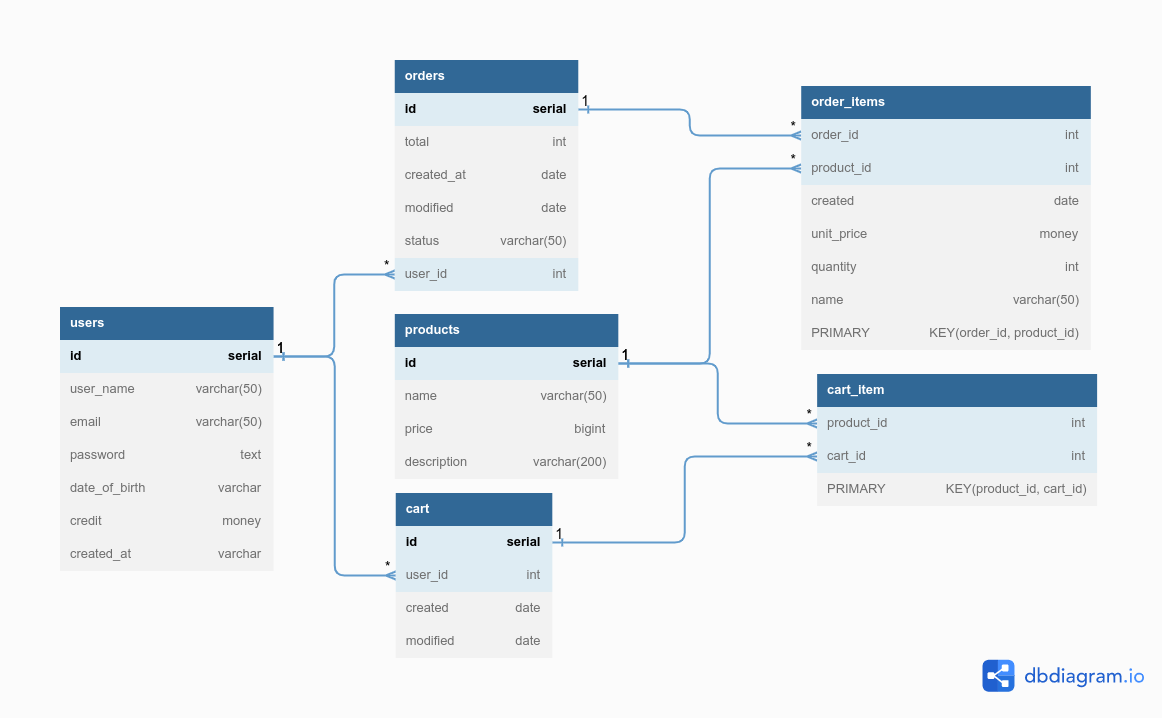
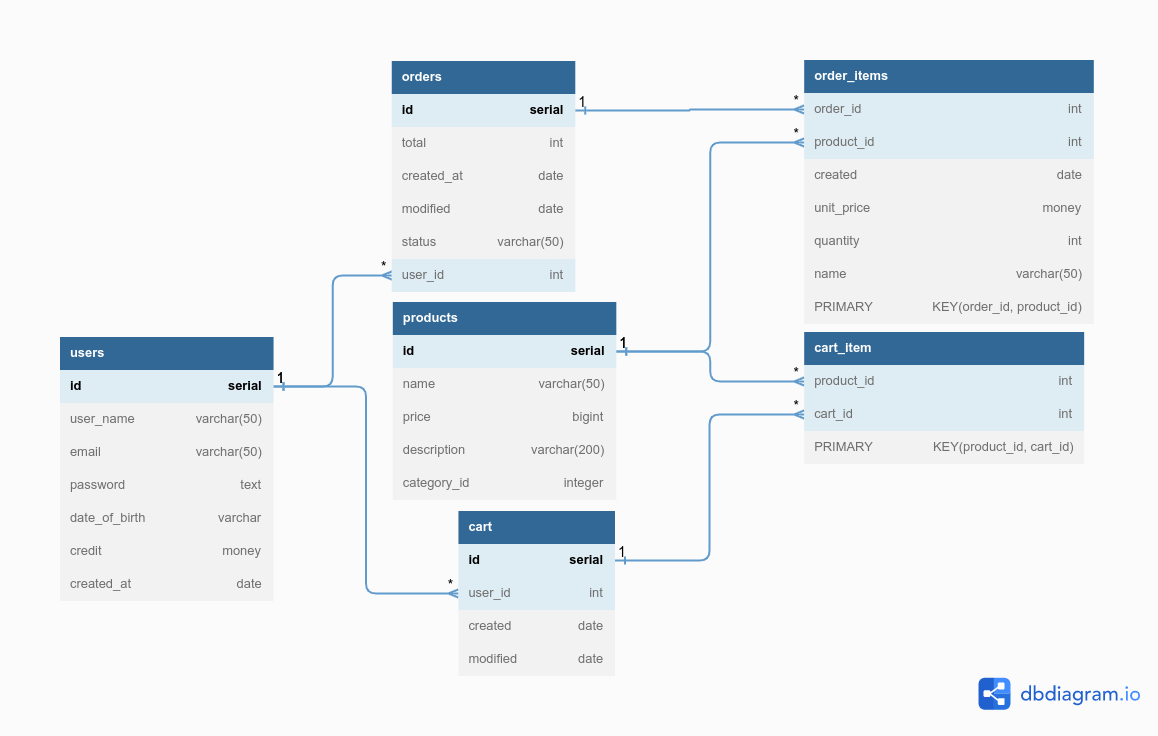
users endpoint completed

diff --git a/queiries/usersQueries.js b/queiries/usersQueries.js
@@ -10,17 +10,13 @@ const getUsers = (request, response) => {
   })
 };
 
-const getUserById = (request, response) => {
-  const id = parseInt(request.params.id);
+const getUserById = async (id) => {
   const values = [id];
   const statement = `SELECT * FROM users WHERE id = $1`;
 
-  db.query(statement, values, (error, results) => {
-    if (error) {
-      throw error
-    }
-    response.status(200).json(results.rows)
-  })
+  const result = await db.query(statement, values);
+  if (!result) { throw error }
+  return result.rows[0];
 };
 
 const getUserByEmail = async (email) => {
@@ -49,36 +45,23 @@ const createUser = (data) => {
   return result.rows[0];
 };
 
-const updateUser = (request, response) => {
-  const id = parseInt(request.params.id)
-  const { user_name, email, password, date_of_birth } = request.body
+const updateUser = async (data) => {
+  const { id, user_name, email, password, date_of_birth } = data;
+  const statement = `UPDATE users SET user_name = $1, email = $2, password = $3, date_of_birth = $4 WHERE id = $5 RETURNING *`;
+  const result = await db.query(statement,[user_name, email, password, date_of_birth, id]);
 
-  db.query(
-    'UPDATE users SET user_name = $1, email = $2, password = $3, date_of_birth = $4 WHERE id = $5 RETURNING *',
-    [user_name, email, password, date_of_birth, id],
-    (error, results) => {
-      if (error) {
-        throw error
-      } if (typeof results.rows == 'undefined') {
-      	response.status(404).send(`Resource not found`);
-      } else if (Array.isArray(results.rows) && results.rows.length < 1) {
-      	response.status(404).send(`User not found`);
-      } else {
-  	 	  response.status(200).send(`User modified with ID: ${results.rows[0].id}`)         	
-      }
-    }
-  )
+  if (!result) {
+    throw error
+  } 
+  return result.rows[0];
 };
 
-const deleteUser = (request, response) => {
-  const id = parseInt(request.params.id)
+const deleteUser = async (id) => {
+  const values = [id];
+  const statement = `DELETE FROM users WHERE id = $1`;
+  const result = await db.query(statement,values);
 
-  db.query('DELETE FROM users WHERE id = $1', [id], (error, results) => {
-    if (error) {
-      throw error
-    }
-    response.status(200).send(`User deleted with ID: ${id}`)
-  })
+  return result;
 };
 
 module.exports = {

diff --git a/routes/users.js b/routes/users.js
@@ -1,15 +1,43 @@
 const express = require('express');
 const router = express.Router();
-const usersService = require('../queiries/usersQueries');
+const { userById, updateAccount, deleteAccount } = require('../services/usersService');
+const { passwordHash } = require('../services/authService')
 
 module.exports = (app) => {
 
-    app.use('/', router);
+    app.use('/users', router);
 
-    router.get('/users', usersService.getUsers);
-    router.get('/users/:id', usersService.getUserById);
-    router.post('/users', usersService.createUser);
-    router.put('/users/:id', usersService.updateUser);
-    router.delete('/users/:id', usersService.deleteUser);
+    router.get('/:userId', async (req,res) => {
+        try {
+            const { userId } = req.params;
+            const response = await userById(userId);
+            res.status(200).send(response);
+          } catch (err) {
+            next(err);
+        };
+    });
+    router.put('/:userId', async (req,res,next) => {
+        try {
+            const { userId } = req.params;
+            let { user_name, email, password, date_of_birth } = req.body;
+            password = await passwordHash(password);
+            const data = { user_name, email, password, date_of_birth };
+
+            const response = await updateAccount({ id: userId, ...data });
+            res.status(200).send(response);
+          } catch (err) {
+            next(err);
+        }; 
+    });
+    router.delete('/:userId', async (req,res) => {
+        try {
+            const { userId } = req.params;
+
+            const response = await deleteAccount(userId);
+            res.status(404).send(response);
+          } catch (err) {
+            next(err);
+        };
+    });
 };
 

diff --git a/routes/shop.js b/routes/shop.js
@@ -1,17 +1,34 @@
 const express = require('express');
 const router = express.Router();
-const { ensureAuthentication } = require('../services/authService')
+const { searchByCategory, searchById } = require('../services/productsService')
 
 module.exports = (app) => {
-    app.use('/', router);
+    app.use('/shop', router);
 
-    router.get('/shop', (req, res) => {
+    router.get('/', (req, res) => {
       res.send('<h1>Welcome to the shop</h1>')
     });
 
-    router.post('/shop',ensureAuthentication, (req, res) => {
-        res.render("shop", { user: req.session.user });
-        res.send('<h1>Welcome to the shop</h1>')
+    router.get('/products', async (req, res) => {
+      try {
+        const queryParams = req.query;
+        const { category } = queryParams;
+        
+        const response = await searchByCategory(category);
+        res.status(200).send(response);
+      } catch (err) {
+        next(err);
+      };
+    });
+
+    router.get('/products/:productId',async (req, res) => {
+      try {
+        const { productId } = req.params;
+        const response = await searchById(productId);
+        res.status(200).send(response);
+      } catch (err) {
+        next(err);
+      };
       });
 
 };

diff --git a/services/usersService.js b/services/usersService.js
@@ -1,0 +1,52 @@
+const { getUserById, updateUser, deleteUser } = require('../queiries/usersQueries');
+
+async function userById (id) {
+    try {
+        const foundUser = await getUserById(id);
+        if (!foundUser) {
+            console.log('could not find user');
+            res.sendStatus(401);
+            return;
+          };
+          return foundUser;
+
+    } catch (err) {
+        console.log(err);
+    }
+};
+
+async function updateAccount (data) {
+    try {
+        const updatedAccount = await updateUser(data);
+        if (!updatedAccount) {
+            console.log('could not update account');
+            res.sendStatus(401);
+            return;
+          };
+          return updatedAccount;
+
+    } catch (err) {
+        console.log(err);
+    }
+};
+
+async function deleteAccount (id) {
+    try {
+        const deletedAccoount = await deleteUser(id);
+        if (!deletedAccoount) {
+            console.log('account deleted');
+            res.sendStatus(404);
+            return;
+          };
+          return deletedAccoount;
+
+    } catch (err) {
+        console.log(err);
+    }
+};
+
+module.exports = {
+    userById,
+    updateAccount,
+    deleteAccount
+};

diff --git a/queiries/productsQueries.js b/queiries/productsQueries.js
@@ -1,24 +1,22 @@
 const db = require('../db')
 
 
-const getProducts = (request, response) => {
-  db.query('SELECT * FROM products ORDER BY id ASC', (error, results) => {
-    if (error) {
-      throw error
-    }
-    response.status(200).json(results.rows)
-  })
+const getProducts = async (category) => {
+  const value = [category];
+  const statment = `SELECT * FROM products WHERE category_id = $1 ORDER BY id ASC`;
+  const result = await db.query(statment, value);
+
+  if (!result) { throw error }
+  return result.rows;
 };
 
-const getProductById = (request, response) => {
-  const id = parseInt(request.params.id)
+const getProductById = async (id) => {
+  const values = [id];
+  const statment = `SELECT * FROM products WHERE id = $1`;
+  const result = await db.query(statment, values);
 
-  db.query('SELECT * FROM products WHERE id = $1', [id], (error, results) => {
-    if (error) {
-      throw error
-    }
-    response.status(200).json(results.rows)
-  })
+  if (!result) { throw error }
+  return result.rows[0];
 };
 
 const createProduct = (request, response) => {

diff --git a/services/productsService.js b/services/productsService.js
@@ -1,0 +1,37 @@
+const { getProducts, getProductById } = require('../queiries/productsQueries')
+
+async function searchByCategory (category) {
+
+    try {
+        const foundProducts = await getProducts(category);
+        if (!foundProducts) {
+            console.log('No products currently in this category');
+            res.sendStatus(401);
+            return;
+          };
+          return foundProducts;
+
+    } catch (err) {
+        console.log(err);
+    }
+};
+
+async function searchById (id) {
+    try {
+        const foundProducts = await getProductById(id);
+        if (!foundProducts) {
+            console.log('No products found');
+            res.sendStatus(401);
+            return;
+          };
+          return foundProducts;
+
+    } catch (err) {
+        console.log(err);
+    }
+};
+
+module.exports = {
+    searchByCategory,
+    searchById
+};

diff --git a/services/authService.js b/services/authService.js
@@ -51,7 +51,6 @@ async function sign_in (data) {
 async function sign_up (data) {
   const { user_name, email, password, date_of_birth } = data;
   const hash = await passwordHash(password);
-  console.log(hash);
   const newData = { user_name, email, hash, date_of_birth };
 
   try {
@@ -79,5 +78,6 @@ function ensureAuthentication(req, res, next) {
 module.exports = {
     sign_in,
     sign_up,
-    ensureAuthentication
+    ensureAuthentication,
+    passwordHash
 };
